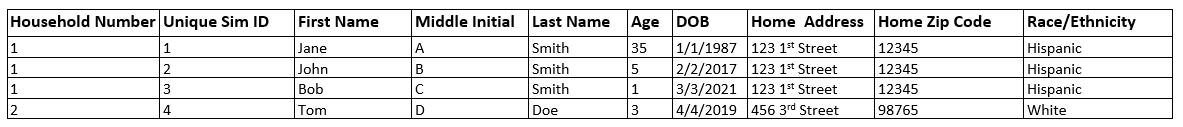
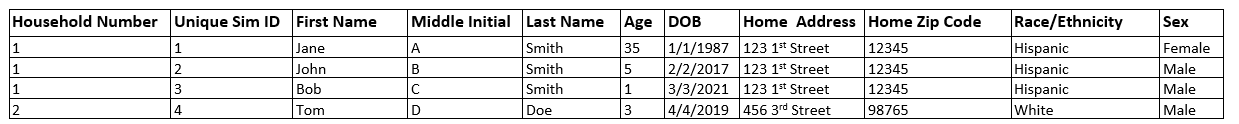
adding sex to two observers

diff --git a/docs/source/models/concept_models/vivarium_census_synthdata/concept_model.rst b/docs/source/models/concept_models/vivarium_census_synthdata/concept_model.rst
@@ -2184,6 +2184,7 @@ There are two types of sampling plans:
   * - Physical Address City
   * - Physical Address State 
   * - Physical Address ZIP Code
+  * - Sex (binary)
   * - Tracked Guardian(s) (for noise functions ONLY)
   * - Tracked Guardian Address(es) (for noise functions ONLY)
   * - Type of GQ (for noise functions ONLY)
@@ -2371,6 +2372,7 @@ in the home.
   * - Physical Address City
   * - Physical Address State 
   * - Physical Address ZIP Code
+  * - Sex (binary)
   * - Race/ethnicity 
   * - Tracked Guardian(s) (for noise functions ONLY)
   * - Tracked Guardian Address(es) (for noise functions ONLY)
